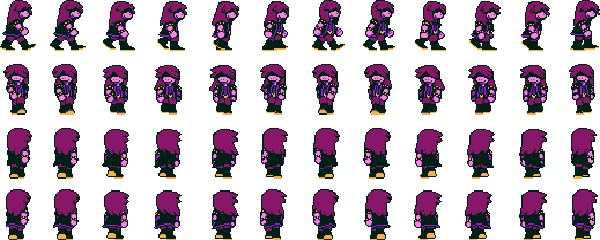
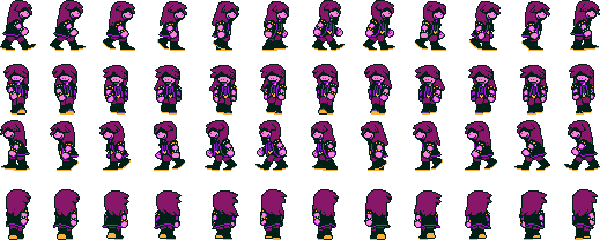
It works! But it does not build. Wait.. That's wrong!

diff --git a/Headers/GameComponents/Player/PlayerGAO.h b/Headers/GameComponents/Player/PlayerGAO.h
@@ -9,30 +9,26 @@ namespace Animations {
 
 class PlayerGAO : public MTT_GraphicalAnimatedObject{
 public:
-	PlayerGAO() : MTT_GraphicalAnimatedObject() { this->playerSpriteSheet = new Player_SpriteSheet(); };
-	PlayerGAO(int x, int y) : MTT_GraphicalAnimatedObject(x, y) { this->playerSpriteSheet = new Player_SpriteSheet(); };
-	PlayerGAO(int* x, int* y) : MTT_GraphicalAnimatedObject(x, y) { this->playerSpriteSheet = new Player_SpriteSheet(); };
+	PlayerGAO() : MTT_GraphicalAnimatedObject() { this->playerSpriteSheet = new Player_SpriteSheet(); this->playerSpriteSheet->cutTexture(); this->fillFramesArrays(); };
+	PlayerGAO(int x, int y) : MTT_GraphicalAnimatedObject(x, y) { this->playerSpriteSheet = new Player_SpriteSheet(); this->playerSpriteSheet->cutTexture(); this->fillFramesArrays(); };
+	PlayerGAO(int* x, int* y) : MTT_GraphicalAnimatedObject(x, y) { this->playerSpriteSheet = new Player_SpriteSheet(); this->playerSpriteSheet->cutTexture(); this->fillFramesArrays(); };
 
 
 	int* x = NULL;
 	int* y = NULL;
 
-	Animations::Player_Anims currentAnimation = Animations::Player_Anims::IDLE;
+	Animations::Player_Anims currentAnimation = Animations::Player_Anims::WALKING_RIGHT;// Change the value of this and the animation will update during rendering. Life is great
 
-	int currentAnimationFrame = 0;
-	int speedAnimation = 1; 
 
+	/*_________All Frames_______________*/
 	SDL_Rect* walkingLeftFrames[12] = {};
 	SDL_Rect* walkingRightFrames[12] = {};
 	SDL_Rect* walkingUpFrames[12] = {};
 	SDL_Rect* walkingDownFrames[12] = {};
 	SDL_Rect* idleFrames[1] = {};
 
-	void loadSpriteSheetFromFilename(std::string filename);
 	void fillFramesArrays();
 	void render();
-
-
 
 protected:
 	Player_SpriteSheet* playerSpriteSheet = NULL;
@@ -40,5 +36,7 @@ protected:
 
 private:
 	SDL_Rect* spriteAreaToDisplay();
+	int currentAnimationFrame = 0;
+	int refreshRate = 200; //The bigger this shit is, the slower the animation will run
 
 };

diff --git a/Source/Logic/Overworld/OverWorldLogic.cpp b/Source/Logic/Overworld/OverWorldLogic.cpp
@@ -31,30 +31,34 @@ void OverWorldLogic::handleEvent(SDL_Event e)
 void OverWorldLogic::handleEvent(const Uint8* keys)
 {
 
+
 	if (keys[SDL_SCANCODE_RIGHT])
 	{
-		/*switch (e.key.keysym.sym)
-		{
-		case SDLK_UP:
-			((OverworldGraph*)this->graph)->y= ((OverworldGraph*)this->graph)->y -Player::VELOCITY;
-			break;
-
-		case SDLK_DOWN:
-			((OverworldGraph*)this->graph)->y = ((OverworldGraph*)this->graph)->y + Player::VELOCITY;
-			break;
-
-		case SDLK_LEFT:
-			((OverworldGraph*)this->graph)->x= ((OverworldGraph*)this->graph)->x -Player::VELOCITY;
-			break;
-
-		case SDLK_RIGHT:*/
 		//((OverworldGraph*)this->graph)->x = ((OverworldGraph*)this->graph)->x + Player::VELOCITY;
-		//this->player->currentFrame++;
-		//if (this->player->currentFrame / 4 >= this->player->FRAMES)
-		{
-			//this->player->currentFrame = 0;
-		}
-		//break;
-	//}
+		this->player->x++;
+		this->player->playerGraphic.currentAnimation = Animations::Player_Anims::WALKING_RIGHT;
 	}
+
+	else if (keys[SDL_SCANCODE_LEFT])
+	{
+		this->player->x--;
+		this->player->playerGraphic.currentAnimation = Animations::Player_Anims::WALKING_LEFT;
+	}
+
+	else if (keys[SDL_SCANCODE_UP])
+	{
+		this->player->y--;
+		this->player->playerGraphic.currentAnimation = Animations::Player_Anims::WALKING_UP;
+	}
+
+	else if (keys[SDL_SCANCODE_DOWN])
+	{
+		this->player->y++;
+		this->player->playerGraphic.currentAnimation = Animations::Player_Anims::WALKING_DOWN;
+	}
+
+	else this->player->playerGraphic.currentAnimation = Animations::Player_Anims::IDLE;
 }
+
+
+

diff --git a/Source/GameComponents/Player/PlayerGAO.cpp b/Source/GameComponents/Player/PlayerGAO.cpp
@@ -1,11 +1,6 @@
 #include "../../../Headers/GameComponents/Player/PlayerGAO.h"
 
 
-void PlayerGAO::loadSpriteSheetFromFilename(std::string filename)
-{
-	this->playerSpriteSheet->loadTexture(filename);
-
-}
 
 void PlayerGAO::fillFramesArrays()
 {
@@ -23,7 +18,7 @@ void PlayerGAO::render()
 {
 	this->playerSpriteSheet->render(*x, *y, spriteAreaToDisplay());
 	this->currentAnimationFrame++;
-	if (this->currentAnimationFrame > 11)
+	if (this->currentAnimationFrame /200 > 11)
 		this->currentAnimationFrame = 0;
 }
 
@@ -32,16 +27,16 @@ SDL_Rect* PlayerGAO::spriteAreaToDisplay()
 	switch (currentAnimation)
 	{
 	case Animations::Player_Anims::WALKING_DOWN:
-		return walkingDownFrames[currentAnimationFrame/speedAnimation];
+		return walkingDownFrames[currentAnimationFrame/200];
 
 	case Animations::Player_Anims::WALKING_LEFT:
-		return walkingLeftFrames[currentAnimationFrame/speedAnimation];
+		return walkingLeftFrames[currentAnimationFrame/200];
 
 	case Animations::Player_Anims::WALKING_RIGHT:
-		return walkingRightFrames[currentAnimationFrame/speedAnimation];
+		return walkingRightFrames[currentAnimationFrame/200];
 
 	case Animations::Player_Anims::WALKING_UP:
-		return walkingUpFrames[currentAnimationFrame/speedAnimation];
+		return walkingUpFrames[currentAnimationFrame/200];
 
 	default:
 		return idleFrames[0];

diff --git a/Source/GameComponents/Player/Player_SpriteSheet.cpp b/Source/GameComponents/Player/Player_SpriteSheet.cpp
@@ -2,7 +2,20 @@
 
 Player_SpriteSheet::Player_SpriteSheet() {
 	this->spriteSheetTexture = new MTT_Texture();
+	spriteSheetTexture->loadFromFile("Susie.png",Graphics::graphicHandler.gameRenderer);
+	this->cutTexture();
 }
+void Player_SpriteSheet::loadTexture(std::string filename)
+{
+	spriteSheetTexture->loadFromFile(filename, Graphics::graphicHandler.gameRenderer);
+	this->cutTexture();
+}
+
+SDL_Rect* Player_SpriteSheet::spriteForIndex(int index)
+{
+	return this->spriteFrames.at(index);
+}
+
 void Player_SpriteSheet::cutTexture()
 {
 	int horizontal = 0;
@@ -10,7 +23,7 @@ void Player_SpriteSheet::cutTexture()
 
 	for (vertical; vertical < 4; vertical++)
 	{ 
-		for (horizontal; horizontal < 12; horizontal++)
+		for (horizontal = 0; horizontal < 12; horizontal++)
 		{
 			SDL_Rect* spriteArea = new SDL_Rect();
 			spriteArea->h = 60;

diff --git a/Headers/GameComponents/Player/Player_SpriteSheet.h b/Headers/GameComponents/Player/Player_SpriteSheet.h
@@ -4,6 +4,8 @@ class Player_SpriteSheet : public MTT_SpriteSheet {
 
 public:
 	Player_SpriteSheet();
+	void loadTexture(std::string filename);
+	SDL_Rect* spriteForIndex(int index);
 	void cutTexture();
 	void render(int x, int y, SDL_Rect* spriteArea);
 

diff --git a/Source/GameComponents/Player/Player.cpp b/Source/GameComponents/Player/Player.cpp
@@ -3,9 +3,8 @@
 
 Player::Player()
 {
-	this->x = 0;
-	this->y = 0;
-	this->playerGraphic.loadSpriteSheetFromFilename("Susie.png");
+	this->x = 200;
+	this->y = 200;
 	this->playerGraphic.x = &x;
 	this->playerGraphic.y = &y;
 

diff --git a/Source/CoreComponents/MTT_SpriteSheet.cpp b/Source/CoreComponents/MTT_SpriteSheet.cpp
@@ -2,7 +2,6 @@
 
 void MTT_SpriteSheet::loadTexture(std::string filename)
 {
-	this->spriteSheetTexture = new MTT_Texture();
 	spriteSheetTexture->loadFromFile(filename,Graphics::graphicHandler.gameRenderer);
 }
 

diff --git a/Headers/CoreComponents/MTT_GraphicalAnimatedObject.h b/Headers/CoreComponents/MTT_GraphicalAnimatedObject.h
@@ -14,7 +14,6 @@ public:
 	int* x = NULL;
 	int* y = NULL;
 
-	virtual void loadSpriteSheetFromFilename(std::string filename) = 0;
 	virtual void render() = 0;
 
 protected : 

diff --git a/Headers/CoreComponents/MTT_GraphicalObject.h b/Headers/CoreComponents/MTT_GraphicalObject.h
@@ -13,8 +13,6 @@ public:
 	
 	int* x = NULL;
 	int* y = NULL;
-
-	virtual void loadSpriteSheetFromFilename(std::string filename) = 0;
 	virtual void render() = 0;
 
 

diff --git a/Headers/GameComponents/Player/Player.h b/Headers/GameComponents/Player/Player.h
@@ -22,9 +22,6 @@ public :
 
 	PlayerGAO playerGraphic;
 
-
-protected : 
-
 	int x;
 	int y;
 
